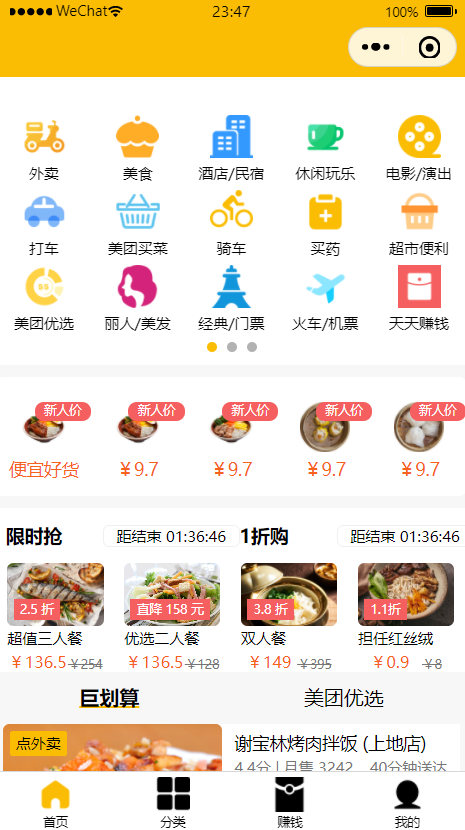
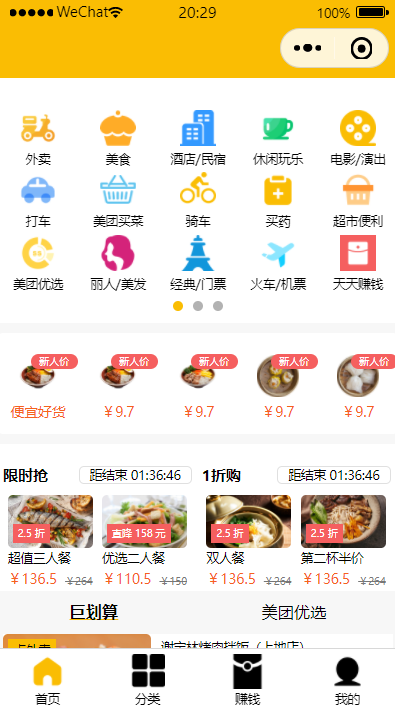
docs: update README

diff --git a/README.md b/README.md
@@ -3,9 +3,13 @@
 
 ## 目前进度
 
-- 搭建首页的样式，封装了两个组件：
-  - TopSiteOption，即顶部的`外卖`，`美食`等选项卡
-  - RecommendedSiteOption，即推荐位置的标有`新人卡`的选项卡
+- 搭建首页的样式，封装了五个组件：
+  - TopSiteOption
+  - RecommendedSiteOption
+  - DiscountSiteContainer
+  - DiscountSiteOption
+  - CommodityPane
+- 搭建分类的样式，复用了之前的组件
 
 ## 样式截图
 
@@ -17,3 +21,6 @@
 
 ![](./README/index2.png)
 
+- 分类页的截图
+  
+![](./README/classficiation1.png)
